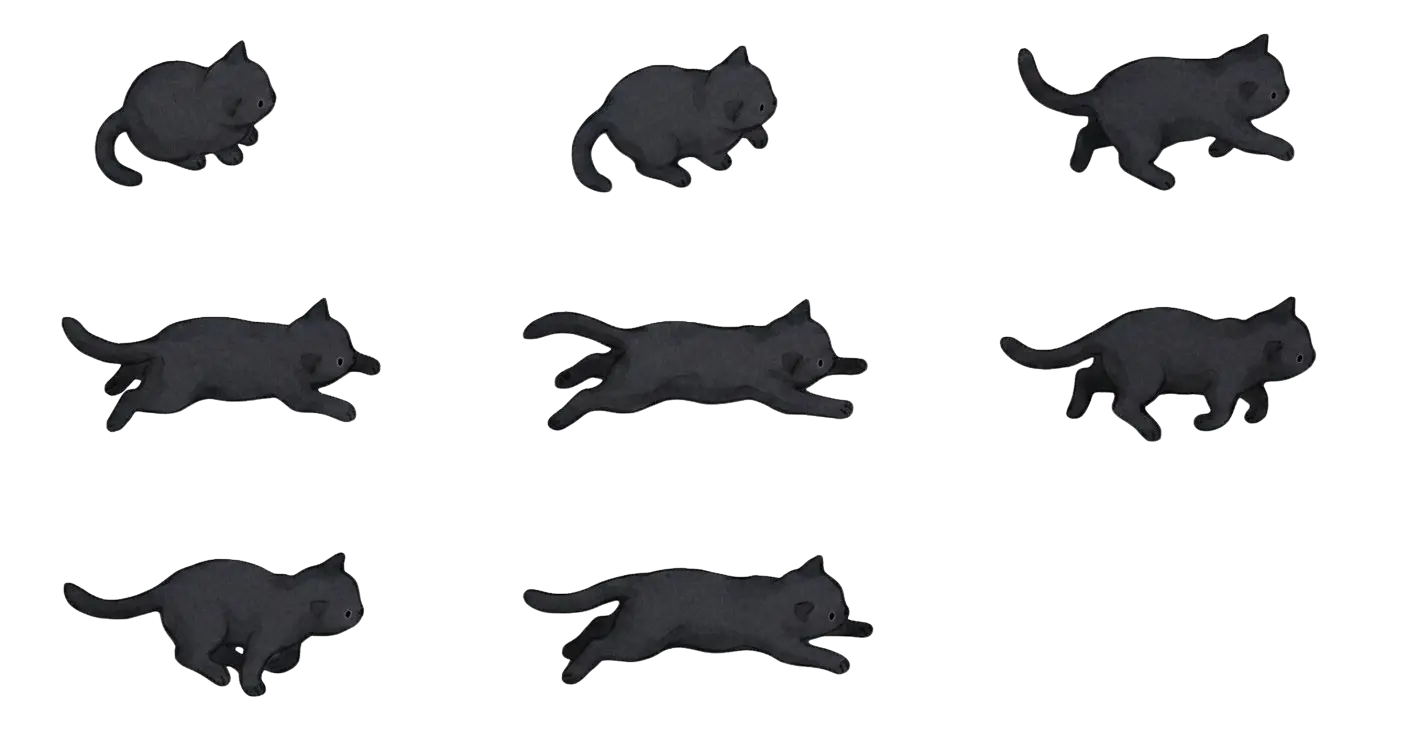
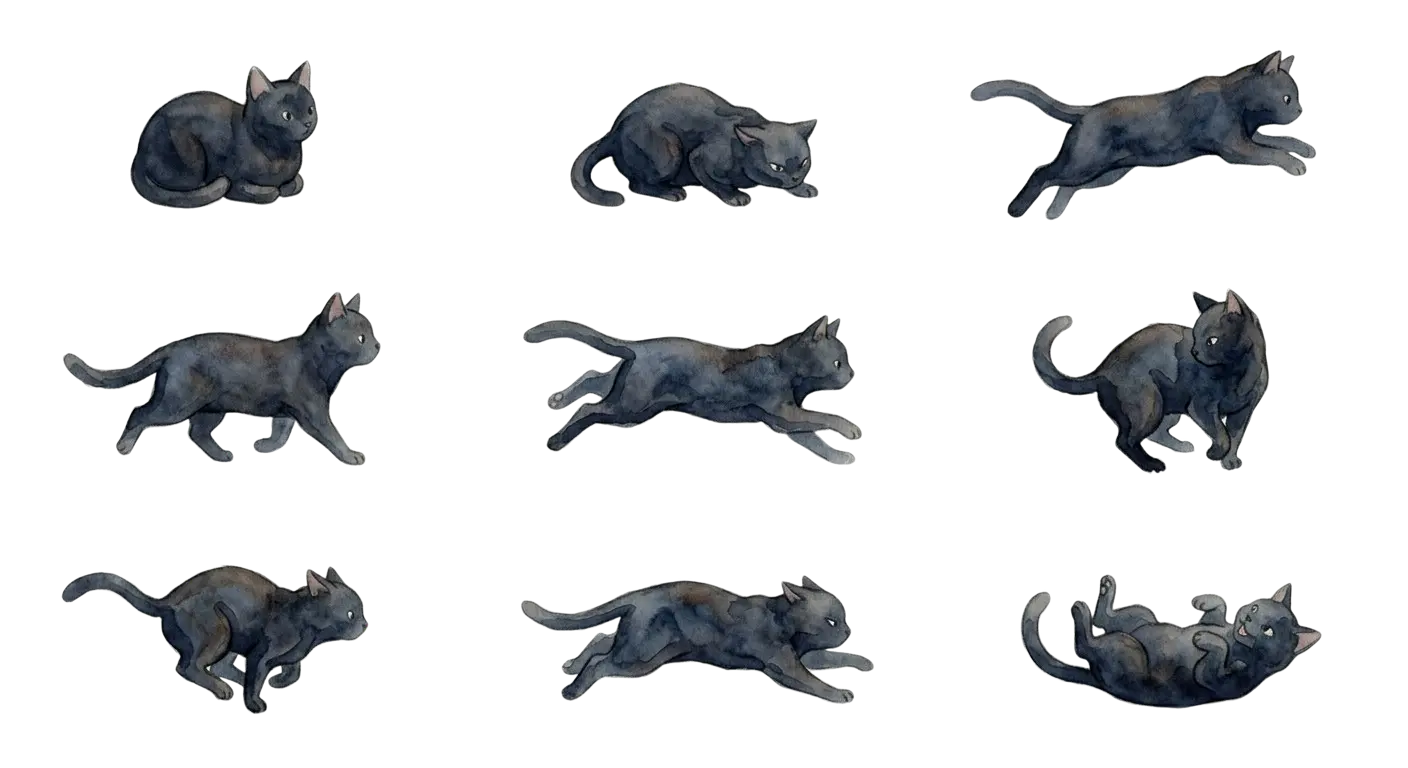
Increase cat sprite size, tweak styles & fonts
Increase avatar/cat sprite sizes (≈3/3.5rem → 5rem) and adjust layout spacing in conversation-popover and lawn items to fit the larger artwork. Add dark:brightness-70 to CatSprite for improved dark-mode visibility. Remove unused icon imports in lawn-items. Change ENGLISH_CUTE font from Indie_Flower to Life_Savers. Update cat-night.webp asset.

diff --git a/apps/leximory/lib/fonts/index.ts b/apps/leximory/lib/fonts/index.ts
@@ -1,6 +1,5 @@
-import { Libre_Baskerville, Source_Code_Pro, Raleway, EB_Garamond, DM_Sans, Noto_Emoji, Noto_Color_Emoji, Space_Mono, IBM_Plex_Mono, Caveat, Indie_Flower } from 'next/font/google'
+import { Libre_Baskerville, Source_Code_Pro, Raleway, EB_Garamond, DM_Sans, Noto_Emoji, Noto_Color_Emoji, Space_Mono, Indie_Flower, Life_Savers } from 'next/font/google'
 import localFont from 'next/font/local'
-import { GeistMono } from 'geist/font/mono'
 
 export const MINCHO = localFont({
     src: './mincho.woff2',
@@ -38,7 +37,7 @@ export const ENGLISH_SANS = DM_Sans({
     preload: false,
 })
 
-export const ENGLISH_CUTE = Indie_Flower({
+export const ENGLISH_CUTE = Life_Savers({
     subsets: ['latin'],
     weight: '400',
     style: ['normal'],

diff --git a/apps/leximory/app/review/components/conversation-popover.tsx b/apps/leximory/app/review/components/conversation-popover.tsx
@@ -123,14 +123,14 @@ function ConversationMessage({
     bodyClassName,
 }: ConversationMessageProps) {
     const avatarVariant = variant === 'black' ? 'black' : 'white'
-    const avatarHeightRem = 3
+    const avatarHeightRem = 5
     const avatarWidthRem = avatarHeightRem * CAT_FRAME_ASPECT
 
     return (
         <div className='text-heimao-800'>
             <div className={cn('max-h-50 overflow-auto', bodyClassName)}>
                 <div
-                    className='float-left mt-1 -ml-2 -mr-4'
+                    className='float-left -my-3 -ml-6 -mr-8'
                     style={{
                         height: `${avatarHeightRem}rem`,
                         width: `${avatarWidthRem}rem`,

diff --git a/apps/leximory/app/review/components/lawn-items.tsx b/apps/leximory/app/review/components/lawn-items.tsx
@@ -2,7 +2,7 @@
 
 import { motion } from 'framer-motion'
 import { cn } from '@/lib/utils'
-import { PiLockKey, PiSparkleFill, PiBookOpen } from 'react-icons/pi'
+import { PiBookOpen } from 'react-icons/pi'
 import { CAT_FRAME_ASPECT, CatSprite } from './cat-sprite'
 
 interface LawnItemProps {
@@ -122,7 +122,7 @@ export function CatTaskPill({
     isLocked = false,
     isCompleted = false,
 }: CatTaskPillProps) {
-    const catHeightRem = 3.5
+    const catHeightRem = 5
     const catWidthRem = catHeightRem * CAT_FRAME_ASPECT
 
     return (

diff --git a/apps/leximory/app/review/components/lawn.tsx b/apps/leximory/app/review/components/lawn.tsx
@@ -479,7 +479,7 @@ export const Lawn = forwardRef<LawnRef, LawnProps>(function Lawn({ onFruitReache
                 >
                     <CatSprite
                         ref={spriteRef}
-                        className="pointer-events-none w-full h-full"
+                        className="pointer-events-none w-full h-full dark:brightness-70"
                         style={{
                             backgroundPosition: CAT_FRAMES.idle,
                         }}